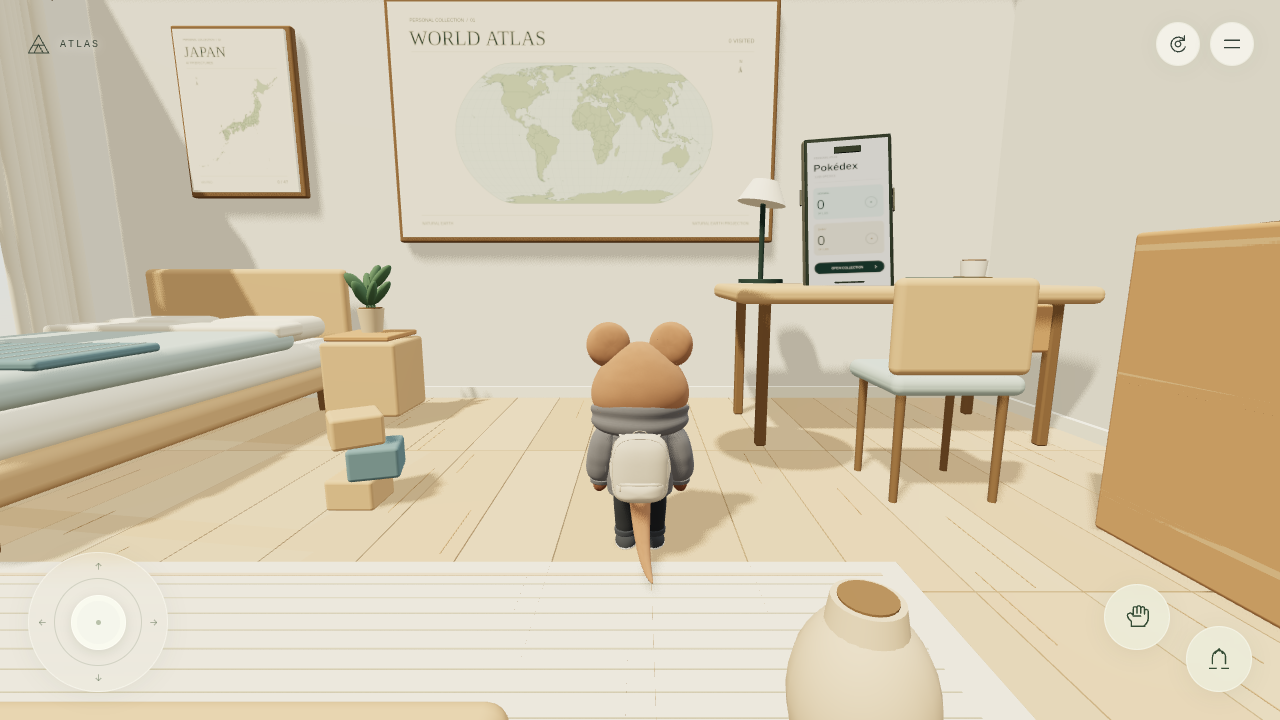
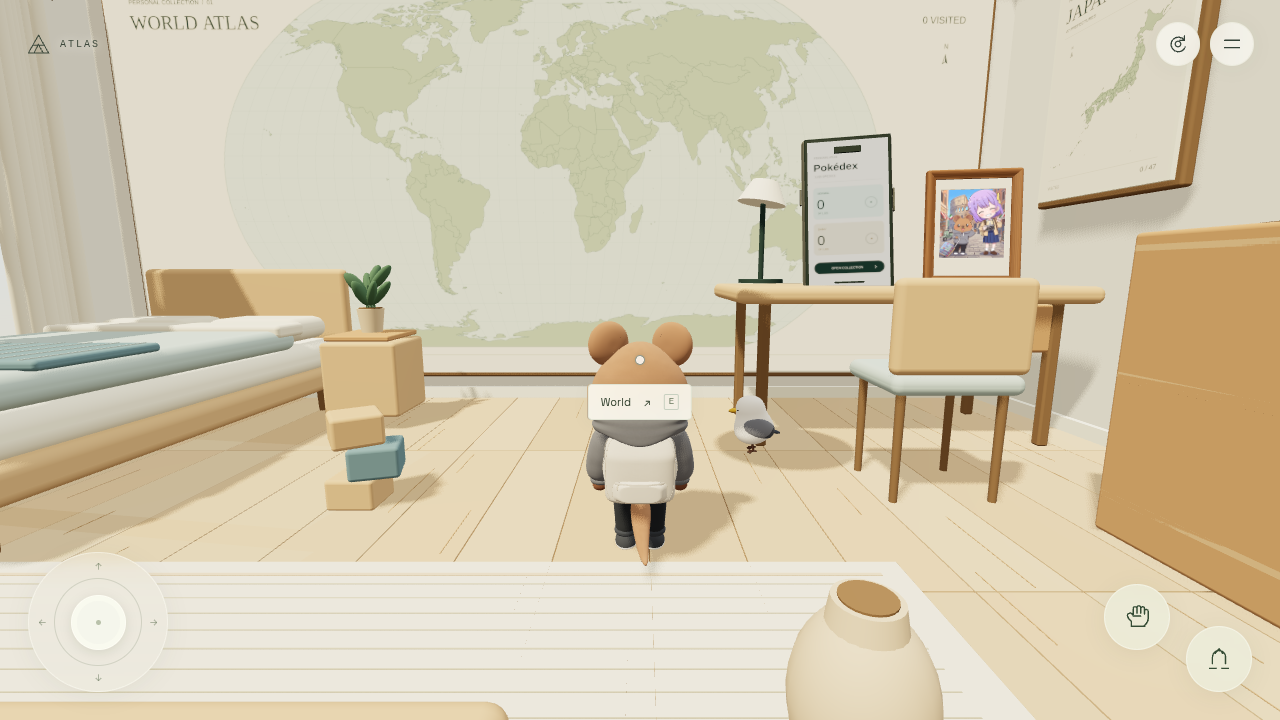
Verify world mural target in the starting view [skip ci]

diff --git a/tests/e2e/room.spec.ts b/tests/e2e/room.spec.ts
@@ -125,7 +125,10 @@ test("小さな旅人を追う3Dの部屋を描画し、大きな見出しで覆
     "aria-expanded",
     "false",
   );
-  await expect(page.locator(".room-crosshair")).toHaveCSS("opacity", "0");
+  // The wall-sized atlas now reaches the starting sightline. Its small
+  // contextual target should appear; the permanent menu/headings stay hidden.
+  await expect(page.getByRole("button", { name: destinations.world, exact: true })).toBeVisible();
+  await expect(page.locator(".room-crosshair")).toHaveCSS("opacity", "1");
   const canvas = page.locator(".room-canvas canvas");
   const box = await canvas.boundingBox();
   expect(box!.width).toBeGreaterThanOrEqual(page.viewportSize()!.width * 0.95);

diff --git a/docs/VALIDATION.md b/docs/VALIDATION.md
@@ -7,6 +7,7 @@
 - 世界地図のCanvasを2304×1024へ変更し、展示面と同じ縦横比でNatural Earth投影を再計算。大きな見出し帯を角の小さな表記に変え、地形を大きく表示しています。国境・訪問実績は従来のデータを使用します。
 - 変更前後の実画面をPC・スマホで比較。世界地図の表示面、日本地図の向き、家具との位置関係を確認しました。
 - PCクリック／スマホタップ×世界／日本の4ケース成功。実際の3D展示面から各記録画面へ遷移し、訪問件数35を確認。ページ例外・コンソールエラーなし。
+- 初期視線が拡大した世界地図に当たるため、既存の描画検査を「対象なし」から「世界地図の案内が出る」へ更新。描画検査1件も成功しました。
 - 本番ビルドと `git diff --check` 成功。従来のチャンク容量警告のみ。移動・演奏など無関係なテストは繰り返していません。
 
 確認画像：[世界地図の壁](screenshots/room-world-mural.png)／[日本地図の移設先](screenshots/room-japan-relocated.png)／[スマホの世界地図](screenshots/room-world-mural-mobile.png)／[スマホの日本地図](screenshots/room-japan-relocated-mobile.png)。スマホ確認はChromiumのタッチエミュレーションです。
